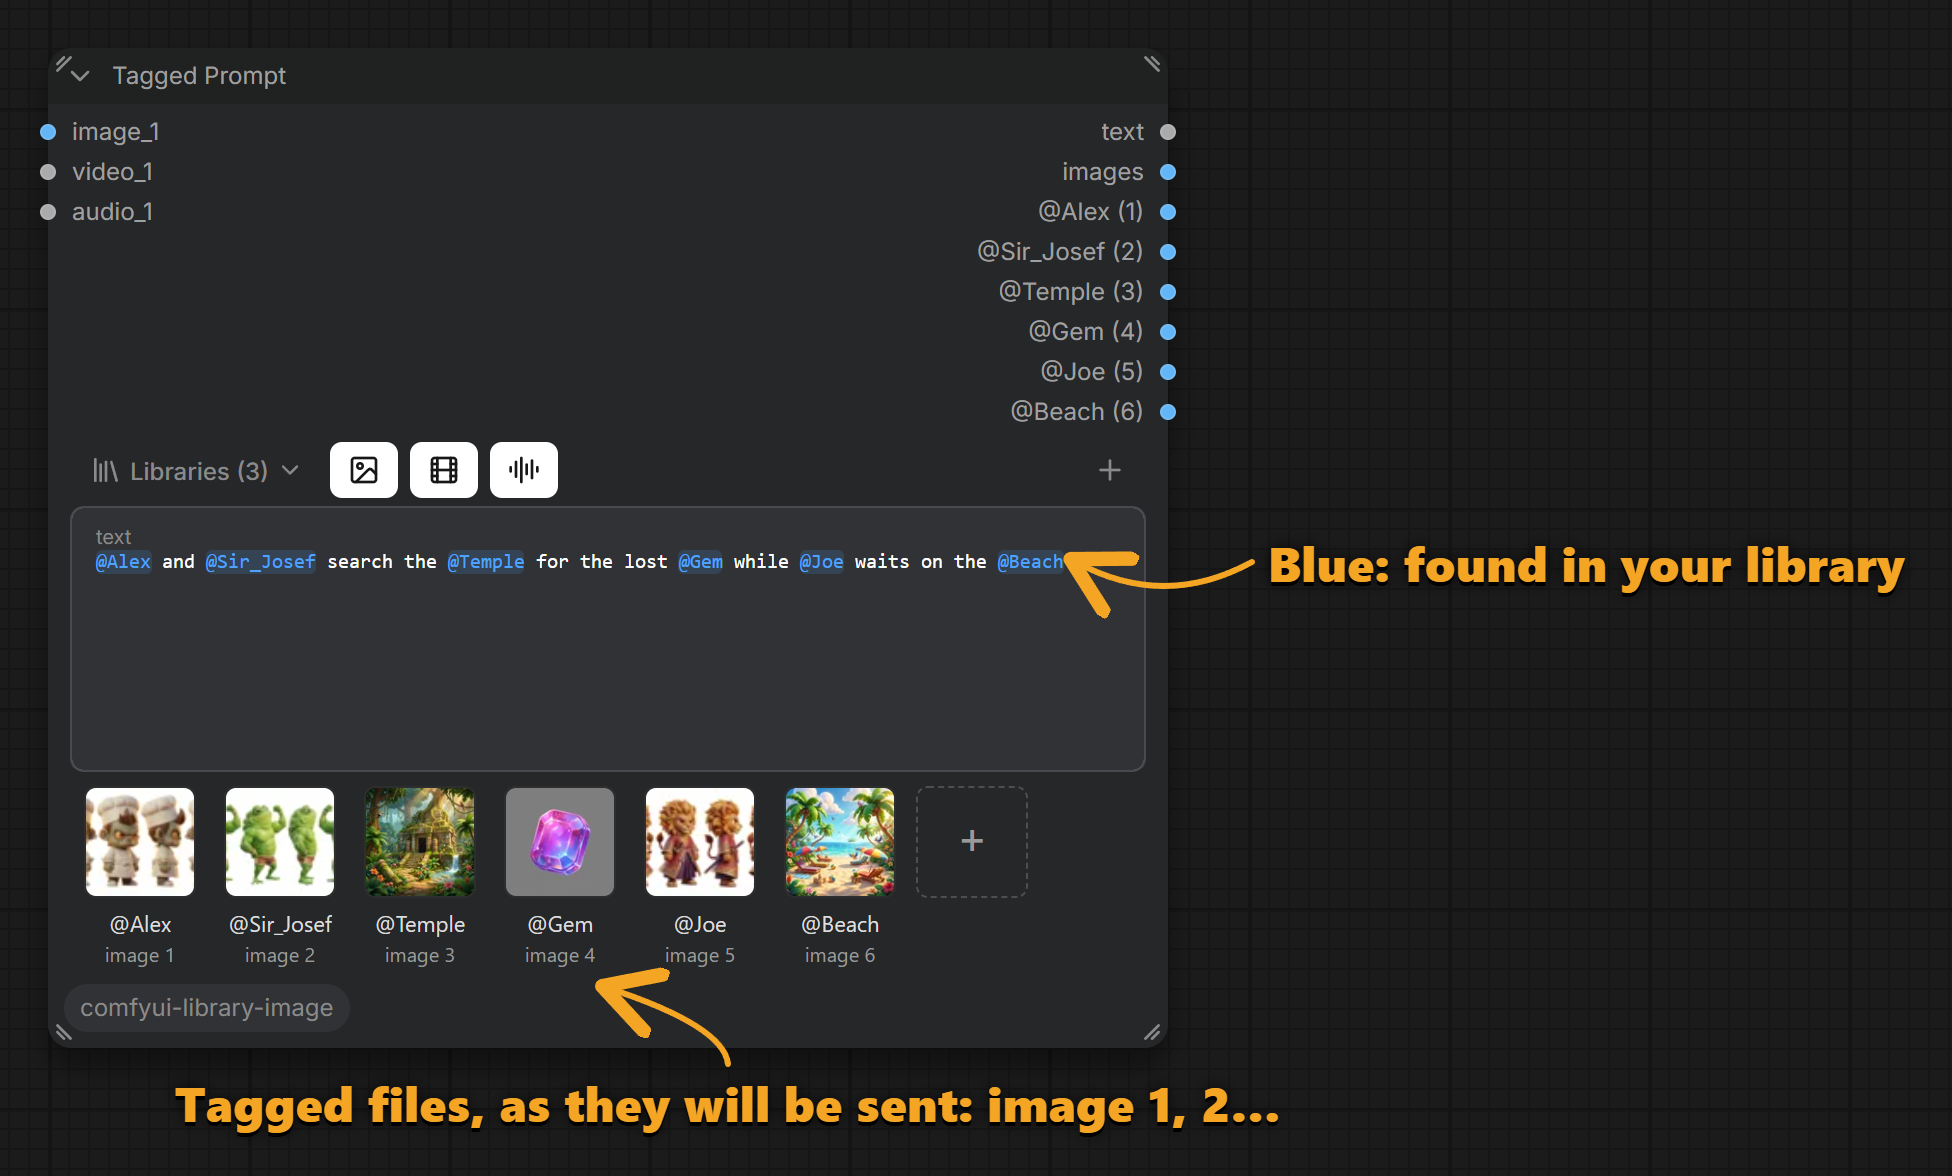
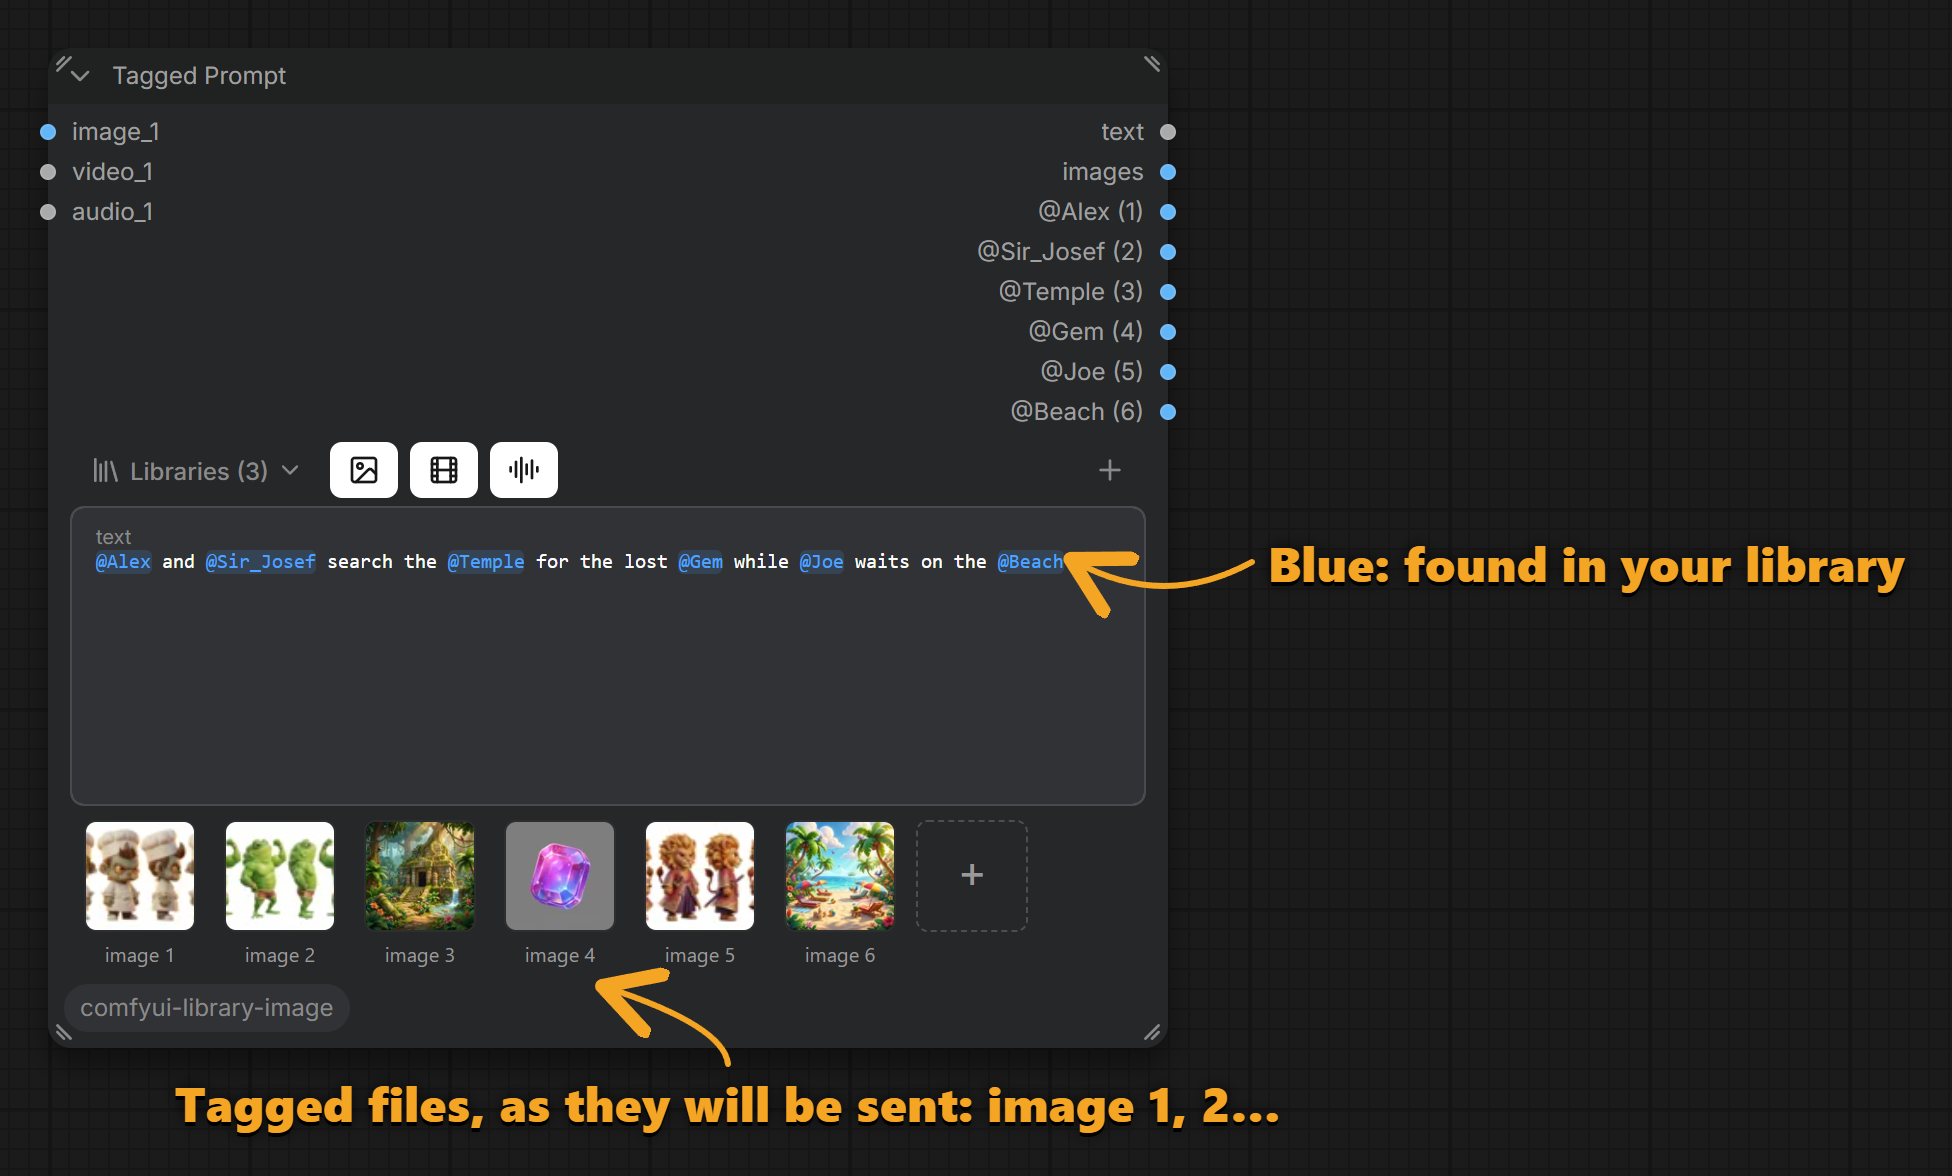
Strip: bigger First/Last button instead of the tag name under thumbnails
The @tag under each thumbnail is gone (it now leads the tooltip; clicking
a thumbnail still finds it in the text). Its space holds a full-width
First/Last button, and "image n" labels stay on one line. Screenshots
re-rendered; callouts point at the button.

Changed region(s): [[0.0312, 0.6429, 0.5, 0.7959]]

diff --git a/web/tp_strip.js b/web/tp_strip.js
@@ -64,11 +64,13 @@ export function refreshStrip(node) {
     if (r.shared) continue; // another tag for the same file already has a chip
     const chip = h("div", `tp-chip${r.state === "ok" ? "" : r.state === "bad" ? " tp-bad" : ` tp-${r.state}`}`);
     const libName = r.asset ? library.libName(r.asset.library) : "";
-    chip.title = r.state === "off" ? `In ${libName}, which is switched off in this node.`
+    // The tag itself isn't printed under the thumbnail (clicking finds it in the text); it leads the tooltip.
+    chip.dataset.tag = `@${r.tok}`;
+    chip.title = `@${r.tok}\n` + (r.state === "off" ? `In ${libName}, which is switched off in this node.`
       : r.state === "missing" ? `File not found: ${r.asset.path}`
       : r.unsupported ? `${r.asset.path}\n⚠ ${r.unsupported}`
       : r.asset ? `${libName} · ${r.asset.path}` : r.wiredByHand ? "Wired by hand"
-      : r.status === "unplugged" ? unpluggedText(r.claim) : `@${r.tok} is not in the library`;
+      : r.status === "unplugged" ? unpluggedText(r.claim) : `@${r.tok} is not in the library`);
     if (r.asset && r.state !== "missing") {
       chip.append(mediaThumb(r.asset, 56, "tp-cthumb"));
     } else if (r.state === "missing") {
@@ -81,10 +83,7 @@ export function refreshStrip(node) {
     }
     const idx = r.label ?? (r.state === "off" ? `${libName} is off` : r.state === "missing" ? "file missing"
       : r.unsupported ? `no ${r.kind} input` : r.status === "unplugged" ? (r.claim?.muted ? "muted" : "unplugged") : "unknown");
-    chip.append(
-      h("div", "tp-cname", { textContent: `@${r.tok}` }),
-      h("div", "tp-idx", { textContent: idx }),
-    );
+    chip.append(h("div", "tp-idx", { textContent: idx }));
     const key = tagKey(r.tok);
     const count = mentionsIn(getWidget(node, "text")?.value).filter((t) => tagKey(t) === key).length;
     chip.title += count > 1 ? `\nClick to cycle through its ${count} uses` : "\nClick to find it in the text";
@@ -138,12 +137,9 @@ function extraChip(node, x) {
     node.graph?.change?.();
     refreshStrip(node);
   };
-  chip.append(
-    tog,
-    h("div", "tp-cname", { textContent: x.tag ? `@${x.tag}` : x.input }),
-    h("div", "tp-idx", { textContent: x.label ?? (x.unsupported ? `no ${x.kind} input` : "") }),
-  );
-  chip.title = `${x.input} ← ${x.src?.title ?? "?"}${media.file ? ` (${media.file})` : ""}\nNot in the library: used for this run only.`
+  chip.dataset.tag = x.tag ? `@${x.tag}` : x.input;
+  chip.append(tog, h("div", "tp-idx", { textContent: x.label ?? (x.unsupported ? `no ${x.kind} input` : "") }));
+  chip.title = `${chip.dataset.tag}\n${x.input} ← ${x.src?.title ?? "?"}${media.file ? ` (${media.file})` : ""}\nNot in the library: used for this run only.`
     + (x.unsupported ? `\n⚠ ${x.unsupported}` : "");
   if (x.tag) {
     const key = tagKey(x.tag);

diff --git a/web/tp_style.js b/web/tp_style.js
@@ -45,11 +45,12 @@ export const CSS = `
 .tp-chip .tp-ph.tp-cthumb{color:var(--muted-foreground,#8a8a8a)}
 .tp-chip .tp-ph.tp-cthumb svg{width:22px;height:22px}
 .tp-extra .tp-cthumb{border-style:dashed;border-color:var(--muted-foreground,#8a8a8a)}
-.tp-firstlast{margin-top:-14px;z-index:1;border:1px solid var(--secondary-background,#262729);border-radius:4px;
-  background:var(--base-background,#171718);color:var(--base-foreground,#fff);font:10px/14px Inter,system-ui,sans-serif;
-  padding:0 4px;cursor:pointer;white-space:nowrap}
-.tp-firstlast:hover{border-color:var(--base-foreground,#fff)}
-.tp-chip .tp-cname{max-width:64px;white-space:nowrap;overflow:hidden;text-overflow:ellipsis}
+.tp-firstlast{width:60px;margin-top:2px;border:1px solid var(--border-color,#666);border-radius:5px;
+  background:var(--secondary-background,#262729);color:var(--base-foreground,#fff);font:600 11px/20px Inter,system-ui,sans-serif;
+  padding:0;cursor:pointer;white-space:nowrap}
+.tp-firstlast:hover{border-color:var(--base-foreground,#fff);background:var(--secondary-background-hover,#333)}
+/* With a First/Last button in the strip, the other chips keep their "image n" on the same line. */
+.tp-strip:has(.tp-firstlast) .tp-chip:not(.tp-extra) .tp-idx{margin-top:26px}
 .tp-chip .tp-idx{font-size:10px;color:var(--descrip-text,#999)}
 .tp-chip.tp-bad .tp-idx{color:#e57373}
 .tp-add{width:56px;height:56px;border:1px dashed var(--border-color,#666);border-radius:6px;background:transparent;
@@ -75,7 +76,6 @@ export const CSS = `
   background:var(--secondary-background,#262729);color:var(--muted-foreground,#8a8a8a)}
 .tp-chip.tp-missing .tp-idx{color:var(--tp-tag-missing)}
 .tp-chip.tp-off{opacity:.55}
-.tp-chip.tp-off .tp-cname{text-decoration:line-through}
 .tp-hover.tp-hmissing .tp-hname{color:var(--tp-tag-missing)}
 .tp-hover.tp-hoff .tp-hname{color:var(--tp-tag-off);text-decoration:line-through}
 .tp-hover.tp-pinned{pointer-events:auto}

diff --git a/tests/harness.js b/tests/harness.js
@@ -16,7 +16,7 @@ const add = (type, x, y, g = G) => { const n = LG.createNode(type); g.add(n); n.
 const idx = (n, name) => n.inputs.findIndex((i) => i.name === name);
 const loadImg = (file, x, y, g) => { const n = add("LoadImage", x, y, g); n.widgets.find((w) => w.name === "image").value = file; return n; };
 const chips = (tp) => [...(document.querySelectorAll(`.lg-node[data-node-id="${tp.id}"] .tp-chip`))]
-  .map((c) => `${c.querySelector(".tp-cname")?.textContent}[${c.querySelector(".tp-idx")?.textContent}]`).join(" ");
+  .map((c) => `${c.dataset.tag}[${c.querySelector(".tp-idx")?.textContent}]`).join(" ");
 const ink = (tp) => [...(document.querySelectorAll(`.lg-node[data-node-id="${tp.id}"] .tp-ink`))].map((s) => `${s.textContent}=${s.dataset.state}`).join(" ");
 const describe = (o, id) => { const n = o[id]; if (!n) return `?${id}`; return `${n.class_type}:${String(n.inputs.image ?? n.inputs.image_path ?? n.inputs.path ?? "").split(/[\\/]/).pop()}`; };
 async function api() {

diff --git a/README.md b/README.md
@@ -102,7 +102,8 @@ Hover a tag in the text for a large preview, where it goes, and where the file i
 
 ### 9. Find a tag from its thumbnail
 
-Hover a thumbnail to highlight its tags; click it to jump to the tag (click again for the next one).
+Hover a thumbnail to highlight its tags (the tooltip names it); click it to jump to the tag (click again
+for the next one).
 
 <img src="docs/images/10_click_a_thumbnail_to_find_its_tag.png" width="560" alt="Click a thumbnail to find its tag">
 
@@ -251,7 +252,7 @@ free input appears each time one is used.
 
 <img src="docs/images/11_plug_in_a_file.png" width="760" alt="A Load Image plugged into the Tagged Prompt and tagged by its file name">
 
-**3. Choose its place: before or after the library files.** The button on its thumbnail switches between
+**3. Choose its place: before or after the library files.** The button under its thumbnail switches between
 **⇤ First** (the default: it takes the first inputs, before the library files) and **Last ⇥** (after
 them). The numbers under the thumbnails show the result straight away.
 
